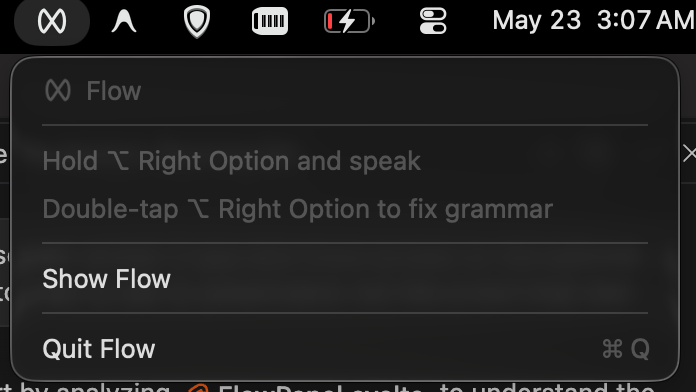
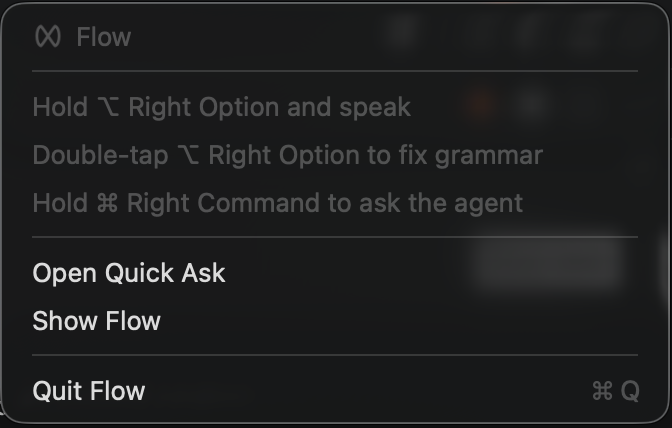
docs: add Quick Ask HUD screenshot, refresh menu bar image, expand examples
- Add docs/images/quick_ask_hud.png (the floating Quick Ask HUD).
- Update docs/images/menubar_menu.png to the current menu (Open Quick Ask + the
  Quick Ask hotkey hint).
- README: add an intent/example table for Quick Ask and detail the menu-bar
  dropdown items.

Changed region(s): [[0.0, 0.0, 1.0, 1.0]]

diff --git a/README.md b/README.md
@@ -41,8 +41,25 @@ Hold a hotkey and **speak** (or type) a request to the agent in a floating popup
   <img src="docs/images/quick_ask_hud.png" alt="Quick Ask HUD" width="75%" style="border-radius: 8px; box-shadow: 0 4px 20px rgba(0,0,0,0.5);" />
 </p>
 
+**Just say (or type) things like:**
+
+| Intent | Example |
+| --- | --- |
+| 🔎 **Ask about your screen** | *"Summarize this page"* · *"Explain this code"* · *"What does this error mean?"* |
+| ✍ **Write & rewrite** | *"Reply to this email"* · *"Make this more concise"* · *"Fix grammar and tone"* |
+| 🚀 **Do things across apps** | *"Save this as a note"* · *"Draft a reply in Mail"* · *"Open this link in my browser"* |
+| ⚡ **Quick answers** | *"What's 15% of 240?"* · *"Convert 30°C to °F"* · *"Define 'idempotent'"* |
+
+The same popup flows smoothly through **Listening → Transcribing → Thinking → Answer** — copy the response, hit **+** for a new chat, or **open in app** to continue in the full Cowork window.
+
 ### 🍏 Native Menu Bar Integration
-Pinwheel-based status bar widget showing status (idle, recording, or transcribing) and quick commands — including **Open Quick Ask**:
+A pinwheel status-bar widget that shows live state (idle / recording / transcribing) and one-tap commands. The dropdown lists your active shortcuts and quick actions:
+
+- **Hotkey hints** — *Hold ⌥ Right Option and speak* (dictation), *Double-tap ⌥ Right Option to fix grammar*, and *Hold ⌘ Right Command to ask the agent* (Quick Ask).
+- **Open Quick Ask** — launches the floating Quick Ask HUD as a plain chat.
+- **Show Flow** — brings the main window to the front.
+- **Quit Flow** — ⌘Q.
+
 <p align="center">
   <img src="docs/images/menubar_menu.png" alt="macOS Menu Bar" width="55%" style="border-radius: 8px; box-shadow: 0 4px 20px rgba(0,0,0,0.5);" />
 </p>
